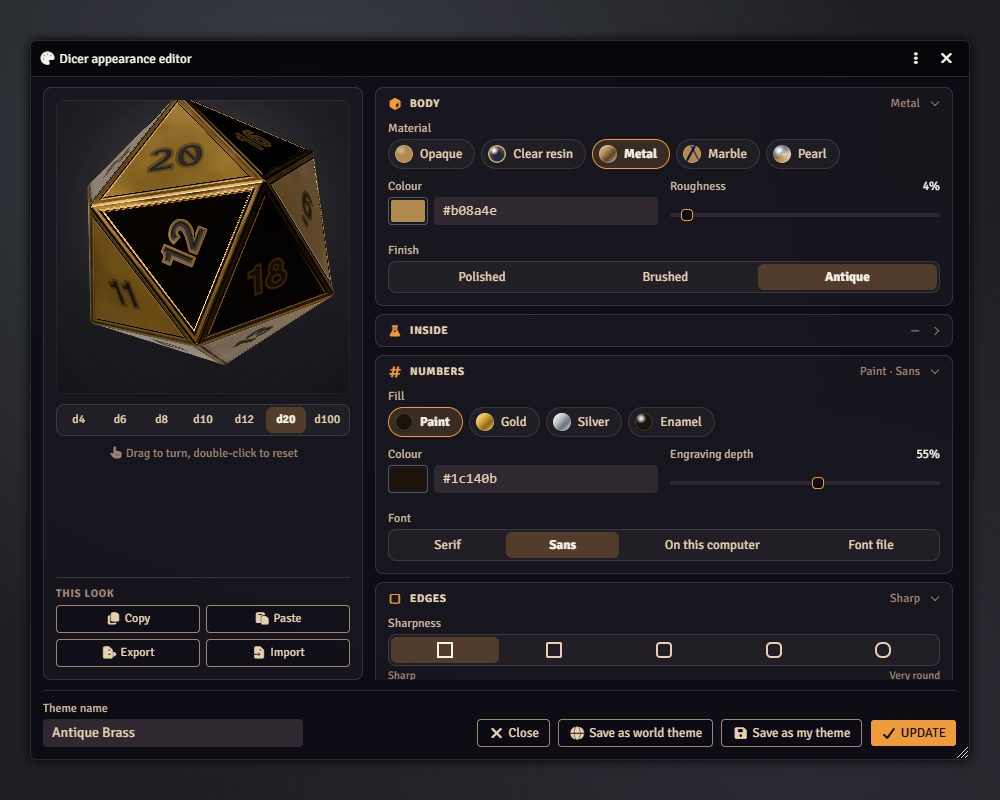
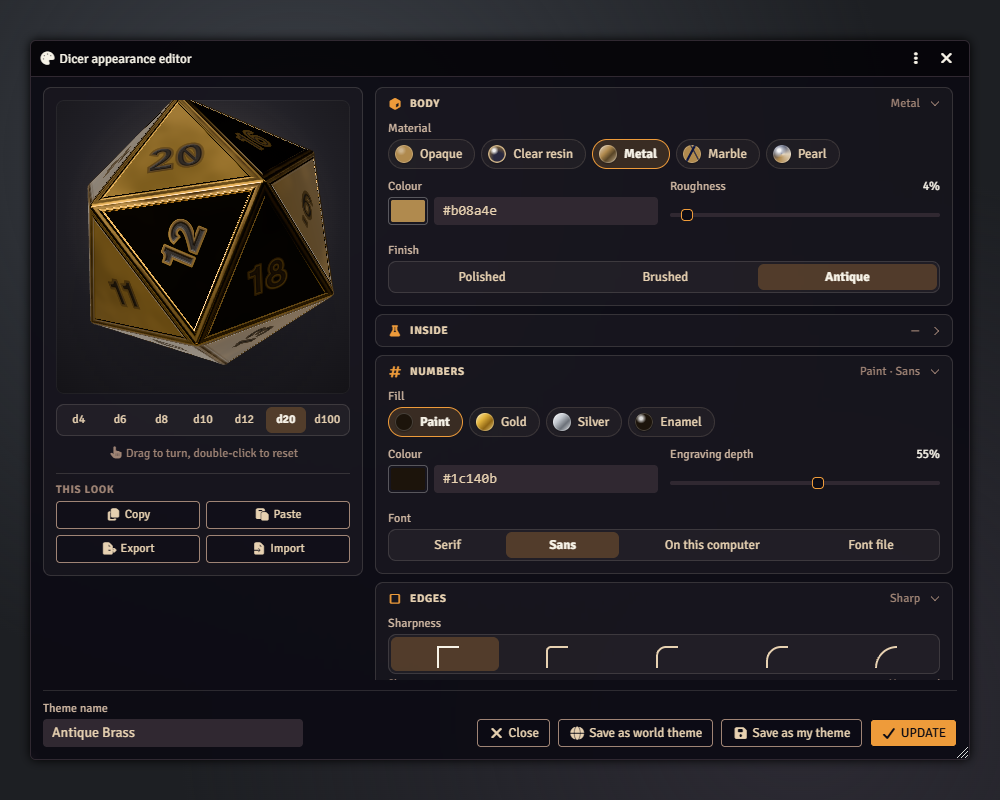
fix(ui): appearance editor review round 1
The font check no longer holds the preview scheduler's in-flight slot (a
hung font froze the preview up to the 8 s timeout). Default look moves
the preview off an overridden die type; a cleared name is refused rather
than saved under the base name; opening another look confirms only when
there are unsaved edits. Edge icons draw one corner at clearly distinct
radii; the preview panel ends after its tools.

diff --git a/tests/unit/appearance-editor.test.js b/tests/unit/appearance-editor.test.js
@@ -214,6 +214,7 @@ describe('the appearance editor', () => {
   let thumbs;
   let handles;
   let fonts;
+  let foundryStub;
   const lang = JSON.parse(readFileSync('lang/en.json', 'utf8'));
   const localize = (k) => {
     const v = resolve(lang, k);
@@ -251,10 +252,13 @@ describe('the appearance editor', () => {
         this._el?.remove();
       }
     }
-    vi.stubGlobal('foundry', {
-      applications: { api: { ApplicationV2: FakeApp, HandlebarsApplicationMixin: (B) => class extends B {} } },
+    foundryStub = {
+      applications: {
+        api: { ApplicationV2: FakeApp, HandlebarsApplicationMixin: (B) => class extends B {}, DialogV2: { confirm: vi.fn(async () => true) } },
+      },
       utils: { saveDataToFile: vi.fn(), readTextFromFile: vi.fn() },
-    });
+    };
+    vi.stubGlobal('foundry', foundryStub);
     mod = await import('../../src/ui/appearance-editor.js');
   });
 
@@ -262,6 +266,7 @@ describe('the appearance editor', () => {
     flags = { themes: [{ id: 'user.u1.mine', name: 'Mine', appearance: resinNebula, future: 'kept' }, 'junk'] };
     store = { worldThemes: [{ id: 'world.table', name: 'Table', appearance: metal }] };
     user = { id: 'u1', isGM: false, getFlag: (s, k) => flags[k], setFlag: vi.fn(async (s, k, v) => (flags[k] = v)) };
+    vi.stubGlobal('foundry', foundryStub);
     handles = [];
     fonts = { request: vi.fn(async () => ({})), get: vi.fn() };
     thumbs = {
@@ -488,7 +493,7 @@ describe('the appearance editor', () => {
     expect(parseLook(json).appearance).toEqual(normalizeAppearance(metal));
     expect(ui.notifications.warn).toHaveBeenCalledTimes(1);
     vi.unstubAllGlobals();
-    vi.stubGlobal('foundry', globalThis.foundry);
+    vi.stubGlobal('foundry', foundryStub);
     await app.close();
   });
 
@@ -503,6 +508,70 @@ describe('the appearance editor', () => {
     await click(app, '[data-field="numbers.fontFamily"][data-value="Georgia"]');
     await vi.waitFor(() => expect(q(app, '.dicer-ae-font-msg').hidden).toBe(true));
     await app.close();
+  });
+
+  it('a font that never loads does not hold up the preview: a later edit still updates within ~100 ms', async () => {
+    vi.useFakeTimers();
+    fonts.request = vi.fn(() => new Promise(() => {})); // never resolves (a hung font)
+    const app = await open({ themeId: 'user.u1.mine' });
+    await click(app, '[data-field="numbers.fontKind"][data-value="css"]');
+    type(app, 'numbers.fontFamily', 'Slow Font', 'change');
+    await vi.advanceTimersByTimeAsync(100);
+    expect(fonts.request).toHaveBeenCalledWith('css:Slow Font');
+    const n = handles[0].update.mock.calls.length;
+    type(app, 'body.color', '#123456');
+    await vi.advanceTimersByTimeAsync(100);
+    expect(handles[0].update.mock.calls.length).toBe(n + 1);
+    expect(handles[0].update.mock.calls.at(-1)[0].appearance.body.color).toBe('#123456');
+    await app.close();
+  });
+
+  it('"Default look" moves the preview off a die type that has its own look', async () => {
+    const app = await open({ themeId: 'user.u1.mine' });
+    await click(app, '[data-action="editType"][data-type="d20"]');
+    expect(q(app, '.dicer-ae-dice button.active').dataset.type).toBe('d20');
+    await click(app, '[data-action="editType"][data-type="default"]');
+    expect(q(app, '.dicer-ae-dice button.active').dataset.type).toBe('d4'); // d20 has its own look
+    await click(app, '[data-action="sameAsDefault"][data-type="d20"]');
+    await click(app, '[data-action="editType"][data-type="d8"]');
+    await click(app, '[data-action="editType"][data-type="default"]');
+    expect(q(app, '.dicer-ae-dice button.active').dataset.type).toBe('d20');
+    await app.close();
+  });
+
+  it('a cleared name is refused (no save under the base theme name)', async () => {
+    const app = await open({ themeId: 'user.u1.mine' });
+    type(app, 'name', '   ');
+    await click(app, '[data-action="saveMine"]');
+    await click(app, '[data-action="update"]');
+    expect(user.setFlag).not.toHaveBeenCalled();
+    expect(ui.notifications.warn).toHaveBeenCalledTimes(2);
+    expect(ui.notifications.warn.mock.calls[0][0]).toBe(localize('DICER.Appearance.NeedName'));
+    await app.close();
+  });
+
+  it('opening another look asks first only when the current editor has unsaved changes', async () => {
+    const confirm = foundry.applications.api.DialogV2.confirm;
+    confirm.mockClear();
+    const first = await mod.openAppearanceEditor({ themeId: 'user.u1.mine' });
+    await mod.openAppearanceEditor({ themeId: 'world.table' }); // clean: no prompt
+    expect(confirm).not.toHaveBeenCalled();
+    const current = await mod.openAppearanceEditor({ themeId: 'user.u1.mine' });
+    expect(current).not.toBe(first);
+    await click(current, '[data-field="body.type"][data-value="pearl"]');
+    expect(current.dirty).toBe(true);
+    confirm.mockResolvedValueOnce(false); // keep editing
+    expect(await mod.openAppearanceEditor({ themeId: 'world.table' })).toBe(current);
+    expect(confirm).toHaveBeenCalledTimes(1);
+    expect(current.theme().appearance.body.type).toBe('pearl');
+    confirm.mockResolvedValueOnce(true); // discard
+    const next = await mod.openAppearanceEditor({ themeId: 'world.table' });
+    expect(next).not.toBe(current);
+    expect(confirm).toHaveBeenCalledTimes(2);
+    // saving makes it clean again
+    await click(next, '[data-action="saveMine"]');
+    expect(next.dirty).toBe(false);
+    await next.close();
   });
 
   it('a duplicate of a built-in theme starts as an unsaved copy named "(copy)"', async () => {

diff --git a/src/ui/appearance-editor.js b/src/ui/appearance-editor.js
@@ -55,6 +55,8 @@ const pct = (v, scale = 1) => `${Math.round((Number(v) || 0) * 100 * scale) / sc
 const INSIDE_ICONS = { none: 'fa-ban', liquid: 'fa-droplet', glitter: 'fa-wand-sparkles', swirl: 'fa-hurricane', nebula: 'fa-cloud', shape: 'fa-shapes' };
 const SHAPE_ICONS = { star: 'fa-star', heart: 'fa-heart', skull: 'fa-skull', sphere: 'fa-circle' };
 const EDGE_NAMES = ['sharp', 'crisp', 'soft', 'round', 'veryRound'];
+/** px radius of the one rounded corner each edge-step icon draws (22 px box): clearly apart. */
+const EDGE_ICON_RADIUS = [0, 5, 10, 15, 22];
 const SECTIONS = ['body', 'inside', 'numbers', 'edges', 'glow', 'perType', 'extras'];
 
 // Stored data of the wrong shape is never written: refused and warned once per kind.
@@ -174,6 +176,19 @@ export class AppearanceEditor extends HandlebarsApplicationMixin(ApplicationV2) 
     this.#extras = { soundMaterial: simple.soundMaterial, nat20: simple.nat20, nat1: simple.nat1 };
     this.#onSave = typeof onSave === 'function' ? onSave : null;
     this.#scheduler = createPreviewScheduler((theme) => this.#renderPreview(theme), { delay: 80 });
+    this.#clean = this.#snapshot();
+  }
+
+  #clean = '';
+
+  #snapshot() {
+    return JSON.stringify([this.#name, this.#forms, this.#extras]);
+  }
+
+  /** True when the window holds edits that are not saved. */
+  get dirty() {
+    this.#syncName();
+    return this.#snapshot() !== this.#clean;
   }
 
   get #isGM() {
@@ -193,7 +208,8 @@ export class AppearanceEditor extends HandlebarsApplicationMixin(ApplicationV2) 
     const keepAll = Object.fromEntries(DIE_TYPES.map((t) => [t, '']));
     const raw = themeFromForm({ name: this.#name, base: KEEP, perType: keepAll, ...this.#extras }, this.#base);
     const { appearance, perType } = looksFromForms(this.#forms);
-    return { ...raw, name: this.#name.trim() || raw.name, appearance, perType };
+    // An empty name stays empty, so the save refuses it (NeedName) instead of reusing the base's.
+    return { ...raw, name: this.#name.trim(), appearance, perType };
   }
 
   /** The theme the preview draws (normalized looks; no id rules needed). */
@@ -244,7 +260,7 @@ export class AppearanceEditor extends HandlebarsApplicationMixin(ApplicationV2) 
         value,
         label: loc(`DICER.Appearance.Edge.${EDGE_NAMES[i]}`),
         active: i === edgeIndex,
-        radius: Math.round(value * 7),
+        radius: EDGE_ICON_RADIUS[i],
       })),
       pct: {
         roughness: pct(form.body.roughness),
@@ -359,7 +375,9 @@ export class AppearanceEditor extends HandlebarsApplicationMixin(ApplicationV2) 
   /** One debounced preview pass: the die shows the working theme. */
   #renderPreview(theme) {
     this.#preview?.update?.(theme, this.#dieType);
-    return this.#checkFont(theme);
+    // Fire and forget: a slow or failing font (up to the layer's timeout) must not hold the
+    // scheduler's one in-flight slot, or the preview would freeze meanwhile.
+    void this.#checkFont(theme);
   }
 
   /** A computer / file font that cannot be made shows a message in the font field (the serif stands in). */
@@ -467,8 +485,11 @@ export class AppearanceEditor extends HandlebarsApplicationMixin(ApplicationV2) 
 
   static async #onEditType(event, target) {
     const type = target.dataset.type;
-    if (type === 'default') this.#editing = 'default';
-    else if (DIE_TYPES.includes(type)) {
+    if (type === 'default') {
+      this.#editing = 'default';
+      // Show a die that wears the default look (d20 unless it has its own).
+      if (this.#forms[this.#dieType]) this.#dieType = this.#forms.d20 ? (DIE_TYPES.find((t) => !this.#forms[t]) ?? 'd20') : 'd20';
+    } else if (DIE_TYPES.includes(type)) {
       this.#forms = addOverride(this.#forms, type);
       this.#editing = type;
       this.#dieType = type; // the preview shows the look being edited
@@ -561,6 +582,7 @@ export class AppearanceEditor extends HandlebarsApplicationMixin(ApplicationV2) 
     else await user.setFlag(MODULE, 'themes', plan.list);
     this.#originalId = plan.id;
     this.#base = normalizeTheme(plan.list.find((t) => t && t.id === plan.id), plan.scope, () => {}) ?? this.#base;
+    this.#clean = this.#snapshot();
     notify('info', loc(mode === 'update' ? 'DICER.Appearance.Updated' : 'DICER.Appearance.Saved'));
     try {
       this.#onSave?.(plan.id);
@@ -604,6 +626,13 @@ export class AppearanceEditor extends HandlebarsApplicationMixin(ApplicationV2) 
 
 /** Opens the editor (one at a time): on a theme ({themeId}) or new from a base theme / look ({base}). */
 export async function openAppearanceEditor(options = {}) {
+  if (instance?.dirty) {
+    const discard = await foundry.applications.api.DialogV2.confirm({
+      window: { title: loc('DICER.Appearance.Title') },
+      content: `<p>${loc('DICER.Appearance.DiscardChanges')}</p>`,
+    });
+    if (!discard) return instance.render({ force: true }); // keep editing the current look
+  }
   if (instance) await instance.close();
   instance = new AppearanceEditor(options);
   return instance.render({ force: true });

diff --git a/styles/dicer.css b/styles/dicer.css
@@ -912,6 +912,9 @@ body.theme-light :is(.dicer-theme-browser, .dicer-trigger-editor, .dicer-damage-
   gap: 12px;
 }
 .dicer-appearance-editor .dicer-ae-preview {
+  align-self: start; /* the panel ends after its tools: no empty box below */
+  max-height: 100%;
+  overflow-y: auto;
   min-height: 0;
   display: flex;
   flex-direction: column;
@@ -972,7 +975,6 @@ body.theme-light :is(.dicer-theme-browser, .dicer-trigger-editor, .dicer-damage-
   display: grid;
   grid-template-columns: 1fr 1fr;
   gap: 6px;
-  margin-top: auto;
   padding-top: 10px;
   border-top: 1px solid var(--dicer-line);
 }
@@ -1221,12 +1223,18 @@ body.theme-light :is(.dicer-theme-browser, .dicer-trigger-editor, .dicer-damage-
   flex: 1 1 auto;
   padding: 0 10px;
 }
+.dicer-appearance-editor .dicer-ae-edges button {
+  height: 34px;
+}
+/* one corner of a die edge, drawn at its rounding: sharp .. very round */
 .dicer-appearance-editor .dicer-ae-edge {
   display: block;
-  width: 16px;
-  height: 16px;
-  border: 2px solid currentColor;
-  border-radius: var(--r);
+  width: 22px;
+  height: 22px;
+  margin: 6px 0 0 6px;
+  border-top: 2.5px solid currentColor;
+  border-left: 2.5px solid currentColor;
+  border-top-left-radius: var(--r);
 }
 .dicer-appearance-editor .dicer-ae-scale {
   display: flex;
